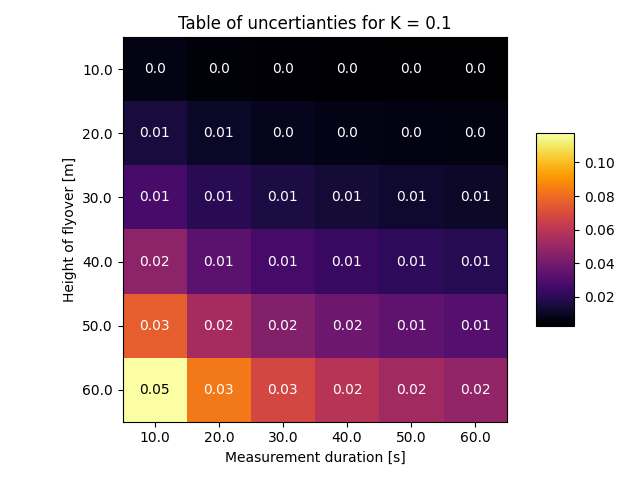
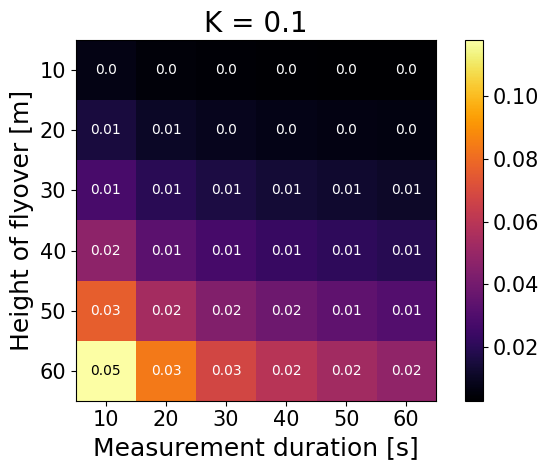
Finishing final report

diff --git a/report_code/test2.py b/report_code/test2.py
@@ -3,6 +3,7 @@ import matplotlib.pyplot as plt
 
 from subsidary import point_source
 from zigzag import flyover
+from spiral import spiral_flyover
 from location import locationCF
 from parameters import *
 from combination import combination
@@ -15,7 +16,7 @@ def loopOverGrid00(radiation, detector, A0, r0):
     N_grid = detector['grid'][0]; X = detector['width']; Y = detector['height']
 
     source00 = [0, 0, A0, r0]
-    data0 = combination(radiation, detector, flyover, locationCF, source00)
+    data0 = combination(radiation, detector, spiral_flyover, locationCF, source00)
     du0 = data0['sourceCF_stDev'][0]; dv0 = data0['sourceCF_stDev'][1]
 
     square_x, square_y = (X)/N_grid, (Y)/N_grid # calculate tile sizes
@@ -29,7 +30,7 @@ def loopOverGrid00(radiation, detector, A0, r0):
             try: # try to calculate the source location
                 Source = point_source(x + square_x/2, y + square_y/2, A0, A0, r0, r0, x - square_x/2, y - square_y/2) # generate a random 
                 # Source[-1] = A0                                                                                     # source in current
-                data = combination(radiation, detector, flyover, locationCF, Source)                                  # tile
+                data = combination(radiation, detector, spiral_flyover, locationCF, Source)                                  # tile
                 du = data['sourceCF_stDev'][0]; dv = data['sourceCF_stDev'][1]
 
                 X_data[i, j] = Source[0]; Y_data[i, j] = Source[1] # store date in the right array
@@ -47,25 +48,32 @@ def loopOverGrid00(radiation, detector, A0, r0):
     fig, (ax1, ax2) = plt.subplots(ncols = 2, nrows = 1, figsize=(15, 6))
 
     test1 = ax1.scatter(X_data, Y_data, c=Zus)
-    ax1.set_xlabel("X axis [m]", fontsize = 15)
-    ax1.set_ylabel("Y axis [m]", fontsize = 15)
-    ax1.set_title('X axis error', fontsize = 20)
+    ax1.set_xlabel("X axis [m]", fontsize = 20)
+    ax1.tick_params('x', labelsize = 15)
+    ax1.set_ylabel("Y axis [m]", fontsize = 20)
+    ax1.tick_params('y', labelsize = 15)
+    ax1.set_title('X axis error', fontsize = 25)
     ax1.axis("equal")
 
     test2 = ax2.scatter(X_data, Y_data, c=Zvs)
-    ax2.set_xlabel("X axis [m]", fontsize = 15)
-    ax2.set_ylabel("Y axis [m]", fontsize = 15)
-    ax2.set_title('Y axis error', fontsize = 20)
+    ax2.set_xlabel("X axis [m]", fontsize = 20)
+    ax2.tick_params('x', labelsize = 15)
+    # ax2.set_ylabel("Y axis [m]", fontsize = 25)
+    ax2.tick_params('y', labelsize = 15)
+    ax2.set_title('Y axis error', fontsize = 25)
     ax2.axis("equal")
 
-    fig.colorbar(test1, ax=ax1)
-    fig.colorbar(test2, ax=ax2)
+    cbar1 = plt.colorbar(test1, ax=ax1)
+    cbar1.ax.tick_params(labelsize = 15)
 
-    # plt.savefig("images/test2.png")
+    cbar2 = plt.colorbar(test2, ax=ax2)
+    cbar2.ax.tick_params(labelsize = 15)
+
+    # plt.savefig("images/test2-spiral.png", bbox_inches = "tight")
     plt.show()
 
 
-A0 = 1000 # Bq
+A0 = 15000 # Bq
 r0 = 50 # m
 
 print(loopOverGrid00(radiation, detector, A0, r0))

diff --git a/report_code/zigzag.py b/report_code/zigzag.py
@@ -63,9 +63,10 @@ def visualize(data):
         ax1.plot(original[0], original[1], "o", color = 'r', ms=12, label = "Original source") # a point that shows the original source
     ax1.plot(estimate[0], estimate[1], "o", color = 'k', ms=3, label = "Scipy curve_fit") # a point that shows the calculated source
     ax1.axis("equal") # equal scale for both x and y axes
-    ax1.set_xlabel("X axis [m]", fontsize = 15)
-    ax1.set_ylabel("Y axis [m]", fontsize = 15)
-    
+    ax1.set_xlabel("X axis [m]", fontsize = 25)
+    ax1.tick_params(axis='x', labelsize = 15)
+    ax1.set_ylabel("Y axis [m]", fontsize = 25)
+    ax1.tick_params(axis='y', labelsize = 15)    
     ax1.legend(fontsize = 15)
 
     x_0, x_1 = hotspot['xrange']; y_0, y_1 = hotspot['yrange']
@@ -78,15 +79,16 @@ def visualize(data):
     ax2.plot(estimate[0], estimate[1], "o", color = 'k', ms=3, label = "Scipy curve_fit")
     ax2.axis("equal")
     ax2.set_xlim(x_0, x_1) # zoom into the hotspot tile
-    ax2.set_xlabel("X axis [m]", fontsize = 15)
+    ax2.set_xlabel("X axis [m]", fontsize = 20)
+    ax2.tick_params(axis='x', labelsize = 15)
     ax2.set_ylim(y_0, y_1) # zoom into the hotspot tile
-    ax2.set_ylabel("Y axis [m]", fontsize = 15)
-
+    ax2.set_ylabel("Y axis [m]", fontsize = 20)
+    ax2.tick_params(axis='y', labelsize = 15)
     
     ax2.legend(fontsize = 15)
 
-    fig.colorbar(im0, ax=ax1) # add colors that corespond to the dose speed at each tile
-    fig.colorbar(im1, ax=ax2)
+    cbar = plt.colorbar(im0)
+    cbar.ax.tick_params(labelsize = 15)
 
     plt.tight_layout()
     plt.show()

diff --git a/report_code/devToParsTable.py b/report_code/devToParsTable.py
@@ -34,18 +34,22 @@ def compTable(radiation, detector, option1, option2, n_sims, K):
                 text = ax.text(j, i, f"{round(dev_array[i, j], 2)}",
                             ha="center", va="center", color='w')
 
-    ax.set_title("Table of uncertianties for K = " + str(K))
-    ax.set_xticks(range(len(J)), list(round(j, 1) for j in J))
-    ax.set_xlabel("Measurement duration [s]")
-    ax.set_yticks(range(len(I)), list(round(i, 1) for i in I))
-    ax.set_ylabel("Height of flyover [m]")
-    fig.colorbar(im, shrink=0.5, aspect=5)
+    ax.set_title("K = " + str(K), fontsize = 20)
+    ax.set_xticks(range(len(J)), list(int(j) for j in J))
+    ax.set_xlabel("Measurement duration [s]", fontsize = 18)
+    ax.set_yticks(range(len(I)), list(int(i) for i in I))
+    ax.tick_params('x', labelsize = 15)
+    ax.set_ylabel("Height of flyover [m]", fontsize = 18)
+    ax.tick_params('y', labelsize = 15)
+
+    cbar = plt.colorbar(im)
+    cbar.ax.tick_params(labelsize = 15)
     fig.tight_layout()
 
-    # plt.savefig("images/ParsTable" + "K=" + str(K) + ".png")
+    # plt.savefig("images/ParsTable" + "K=" + str(K) + ".png", bbox_inches = "tight")
     plt.show()
 
 option_h = {'range': np.linspace(10, 60, 6), 'name': 'h', 'xlabel': "Height of flyover [m]", 'saveAs': 'err_h.png'}
 option_dt = {'range': np. linspace(10, 60, 6), 'name': 'dt', 'xlabel': "Measurement duration [s]", 'saveAs': 'err_dt.png'}
 
-print(compTable(radiation, detector, option_h, option_dt, 3, 0.6))
+print(compTable(radiation, detector, option_h, option_dt, 3, 0.1))

diff --git a/report_code/devToParsErrBar.py b/report_code/devToParsErrBar.py
@@ -30,21 +30,21 @@ def comp(radiation, detector, n_sims, option):
     # plt.plot(list(I), [dus[key][0] for key in dus], "o", label = "u-error")
     # plt.plot(list(I), [dvs[key][0] for key in dvs], "o", label = "v-error")
     
-    plt.xlabel(option['xlabel'], fontsize = 15)
-    plt.xticks(fontsize = 14)
-    plt.ylabel("Source location deviation [m]", fontsize = 15)
-    plt.yticks(fontsize = 14)
+    plt.xlabel(option['xlabel'], fontsize = 20)
+    plt.xticks(fontsize = 15)
+    plt.ylabel("Source location deviation [m]", fontsize = 20)
+    plt.yticks(fontsize = 15)
 
-    plt.legend()
+    plt.legend(fontsize = 15)
     plt.tight_layout()
-    # plt.savefig("images/" + option["saveAs"])
+    # plt.savefig("images/" + option["saveAs"], bbox_inches = "tight")
     plt.show()
 
 option_K = {'range': np.linspace(0, 0.8, 10), 'name': 'detector_constant', 'xlabel': "Detector coefficient []", 'saveAs': "err_Kbar.png"}
 option_h = {'range': np.linspace(10, 60, 10), 'name': 'h', 'xlabel': "Height of flyover [m]", 'saveAs': "err_hbar.png"}
 option_dt = {'range': np. linspace(1, 60, 10), 'name': 'dt', 'xlabel': "Time of measurement at each grid point [s]", 'saveAs': "err_dtbar.png"}
 
-comp(radiation, detector, 5, option_K)
-comp(radiation, detector, 5, option_h)
-comp(radiation, detector, 5, option_dt)
+# comp(radiation, detector, 5, option_K)
+# comp(radiation, detector, 5, option_h)
+# comp(radiation, detector, 5, option_dt)
 

diff --git a/report_code/devToPars.py b/report_code/devToPars.py
@@ -21,14 +21,14 @@ def comp(radiation, detector, source, option):
     plt.plot(list(I), dus, "o", label = "u-error")
     plt.plot(list(I), dvs, "o", label = "v-error")
 
-    plt.xlabel(option['xlabel'], fontsize = 15)
-    plt.xticks(fontsize = 14)
-    plt.ylabel("Deviation [m]", fontsize = 15)
-    plt.yticks(fontsize = 14)
+    plt.xlabel(option['xlabel'], fontsize = 20)
+    plt.xticks(fontsize = 15)
+    plt.ylabel("Deviation [m]", fontsize = 20)
+    plt.yticks(fontsize = 15)
     
-    plt.legend()
+    plt.legend(fontsize = 15)
     plt.tight_layout()
-    # plt.savefig("images/" + option["saveAs"])
+    # plt.savefig("images/" + option["saveAs"], bbox_inches = "tight")
     plt.show()
 
 testSource = point_source(X/2, Y/2, A_max, A_max, r0_max, r0_max)
@@ -40,6 +40,6 @@ option_K = {'range': np.linspace(0, 0.8, 20), 'name': 'detector_constant', 'xlab
 option_h = {'range': np.linspace(10, 60, 20), 'name': 'h', 'xlabel': "Height of flyover [m]", 'saveAs': 'err_h.png'}
 option_dt = {'range': np. linspace(1, 60, 20), 'name': 'dt', 'xlabel': "Measurement duration [s]", 'saveAs': 'err_dt.png'}
 
-# comp(radiation, detector, testSource, option_K)
-# comp(radiation, detector, testSource, option_h)
+comp(radiation, detector, testSource, option_K)
+comp(radiation, detector, testSource, option_h)
 comp(radiation, detector, testSource, option_dt)

diff --git a/report_code/spiral.py b/report_code/spiral.py
@@ -88,9 +88,11 @@ def spiral_visualize(data):
     ax1.plot(estimate[0], estimate[1], 'o', color = "b", ms = 6, label = "Estimated source")
 
     ax1.axis("equal")
-    ax1.set_xlabel("X axis [m]", fontsize = 15)
-    ax1.set_ylabel("Y axis [m]", fontsize = 15)
-   
+    ax1.set_xlabel("X axis [m]", fontsize = 20)
+    ax1.tick_params(axis='x', labelsize = 15)
+    ax1.set_ylabel("Y axis [m]", fontsize = 20)
+    ax1.tick_params(axis='y', labelsize = 15)
+
     ax1.legend(fontsize = 15)
 
     x_data = measurement['grid_x']; y_data = measurement['grid_y']
@@ -102,13 +104,15 @@ def spiral_visualize(data):
 
     # ax2.plot(x_data, y_data, "o", color = "k", label = "Measurements")
 
-    ax2.set_xlabel("X axis [m]", fontsize = 15)
-    ax2.set_ylabel("Y axis [m]", fontsize = 15)
+    ax2.set_xlabel("X axis [m]", fontsize = 20)
+    ax2.tick_params(axis='x', labelsize = 15)
+    ax2.set_ylabel("Y axis [m]", fontsize = 20)
+    ax2.tick_params(axis='y', labelsize = 15)
    
     ax2.legend(fontsize = 15)
 
-    fig.colorbar(im0, ax=ax2)
+    cbar = plt.colorbar(im0)
+    cbar.ax.tick_params(labelsize = 15)
 
     plt.tight_layout()
-    # plt.savefig("graphics/imporved.jpg")
     plt.show()

diff --git a/report_code/test1.py b/report_code/test1.py
@@ -19,12 +19,13 @@ def loopstDev(radiation, detector, n_sims, A0, r0): # the radiation and detector
 
     # # Plot a histogram of the x-coordinates gathered from the simulations 
     plt.hist(us, bins=100)
-    plt.xlabel("X source coordinate estimate [m]", fontsize = 15)
-    plt.xticks(fontsize = 14)
-    plt.ylabel("Number of measuremnets []", fontsize = 15)
-    plt.yticks(fontsize = 14)
+    plt.xlabel("Source x-coordinate [m]", fontsize = 20)
+    plt.xticks(fontsize = 16)
+    plt.ylabel("Number of simulations []", fontsize = 20)
+    plt.yticks(fontsize = 16)
 
-    # plt.savefig("images/test1.png")
+    # plt.savefig("images/test1.png", bbox_inches = "tight")
+    plt.tight_layout()
     plt.show()
 
     stDevS = statistics.stdev(us) # calculate the standard deviation from the gathered x-positions
@@ -40,4 +41,4 @@ def loopstDev(radiation, detector, n_sims, A0, r0): # the radiation and detector
 A0 = 1000 # Bq
 r0 = 50 # m
 
-loopstDev(radiation, detector, 500, A0, r0)
+loopstDev(radiation, detector, 1000, A0, r0)

diff --git a/report_code/parameters.py b/report_code/parameters.py
@@ -1,7 +1,7 @@
 import numpy as np
 
 # ADJUSTABLE PARAMETERS
-A_min = 1e5; A_max = 1.5e5 # borders between which A0 is randomly selected in Bq
+A_min = 1e4; A_max = 1.5e4 # borders between which A0 is randomly selected in Bq
 r0_min = 10; r0_max = 100 # borders between which r0 si radomly selected. The distance from the source where the activity is A0 in m
 A_b = 10 # background activity in Bq
 h = 20 # hight at which the detector flies over in m
@@ -24,5 +24,5 @@ radiation = {'A_min': A_min, 'A_max': A_max, 'r0_min': r0_min, 'r0_max': r0_max,
 detector = {"h": h, "dt": dt, "width": X, "height": Y, "grid": grid, "detector_constant": K, "max_phi": max_phi} 
 
 # SPECIFY A SOURCE
-testSource = [20, -20, 1000, 50]
+testSource = [20, -20, 15000, 50]
 # testSource = []
